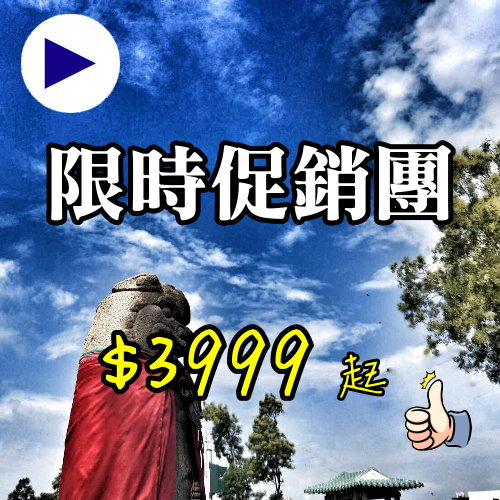
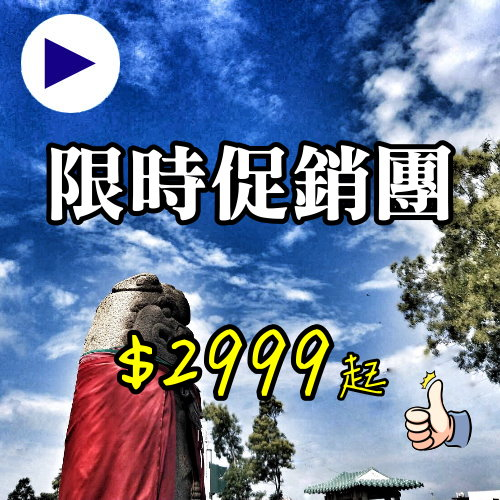
updated

Changed region(s): [[0.18, 0.63, 0.69, 0.81]]

diff --git a/index/domestic_island/kinmen/tafeng_kinmen.html b/index/domestic_island/kinmen/tafeng_kinmen.html
@@ -185,7 +185,7 @@ $(".include").each(function(){
                 //     link:'http://www.tafeng66.com.tw/webobj/travelteam/showselect.asp?Product_id=41989&promo=m&depID=215&rp_dt_id='
                 // },
                 {
-                    imageUrl:"../domestic_island/kinmen/kinmen8.jpg",
+                    imageUrl:"kinmen8.jpg",
                     location:"金門限時促銷團體旅遊",
 					detail:"最最最便宜\n北中南出發\n5-6月最新專案$2,999起",
                     link:'http://www.tafeng66.com.tw/webobj/travelteam/showselect.asp?Product_id=41989&promo=m&depID=215&rp_dt_id='
